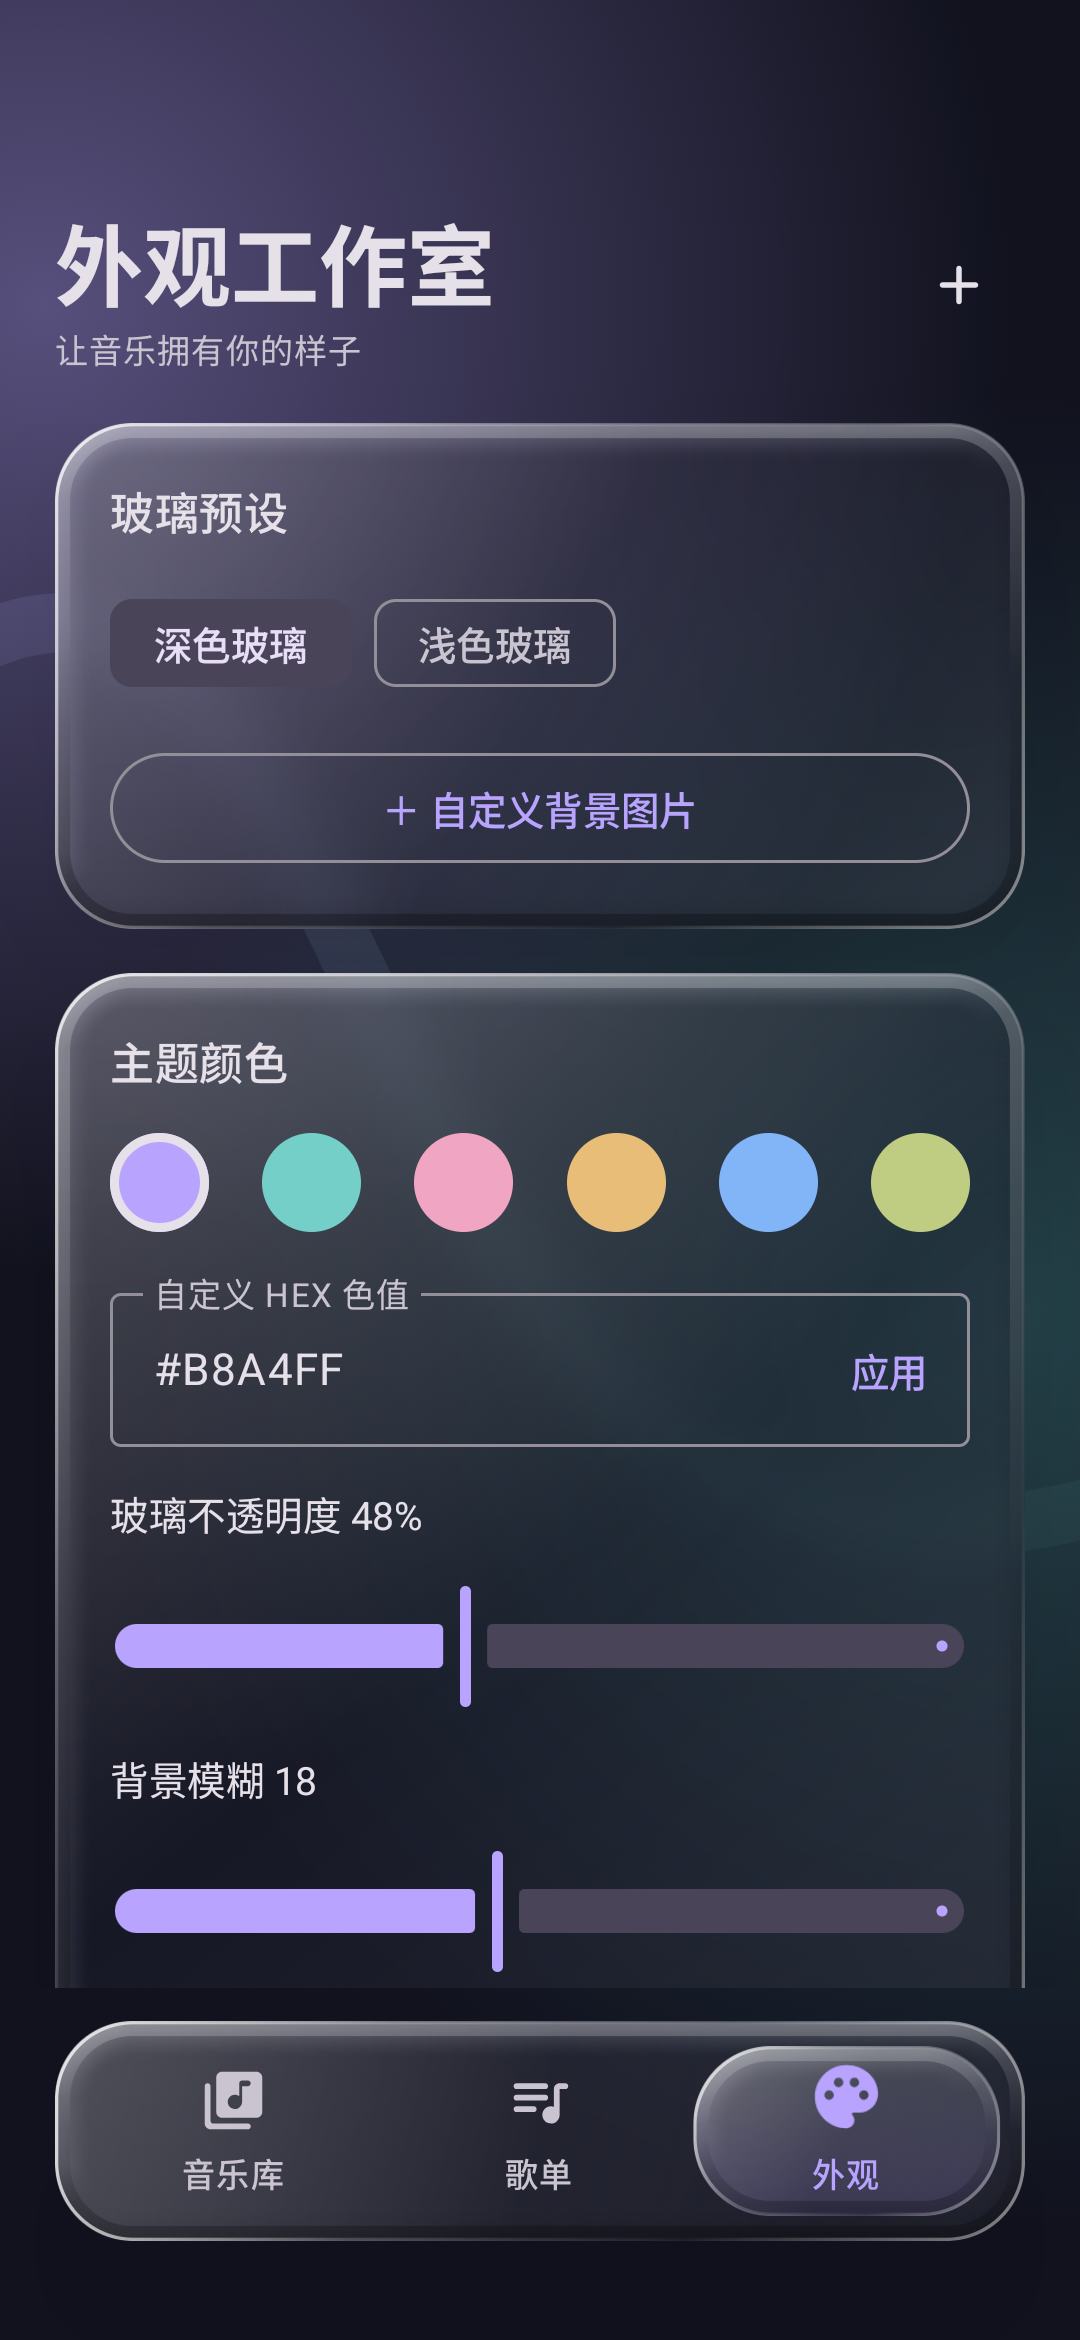
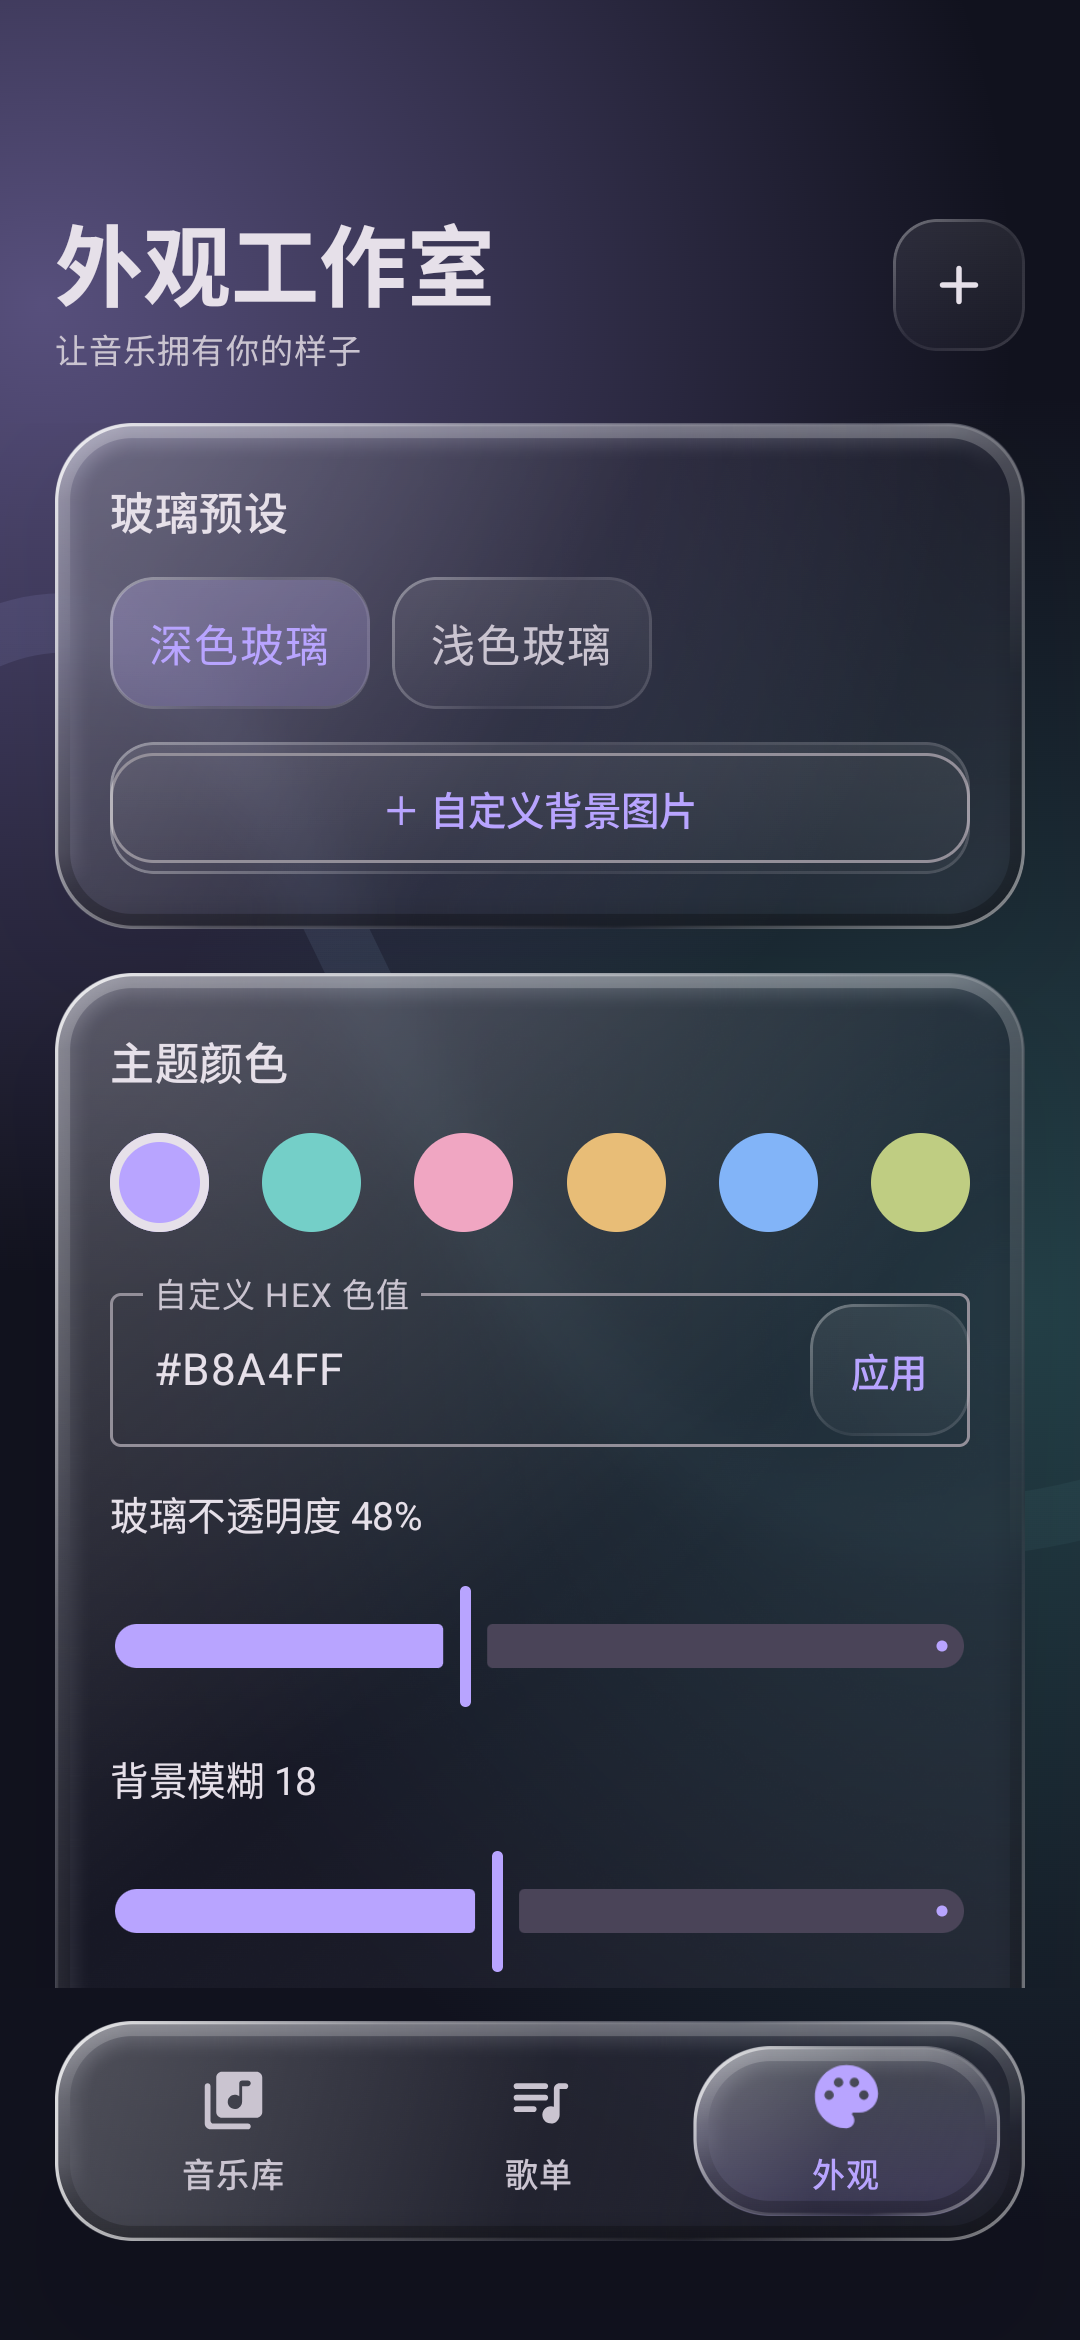
docs: publish unified list screenshots and release verification [skip ci]

Changed region(s): [[0.0917, 0.2496, 0.5806, 0.3744], [0.8556, 0.312, 0.9167, 0.3744], [0.825, 0.0936, 0.8556, 0.1248]]

diff --git a/docs/GLASS.md b/docs/GLASS.md
@@ -13,3 +13,10 @@
 导航高亮在三个标签间弹性移动，按下时最多扩张约 12%，图标放大到 1.28 倍并上浮；松手完成点击才切换页面并触发轻触反馈。取消触摸恢复原位置。关闭动效或开启低性能模式时立即更新选中状态，不执行弹簧动画。
 
 设备验证涵盖 Android 10 的兼容分支、Android 15 的实际 RuntimeShader 编译和绘制、深浅材质、取消按压与减少动效。测试中的图像差异检查用于确认导航反馈足够明显，不代表所有实体设备的帧率评测。
+
+
+## 1.0.6 列表与控件
+
+滚动列表共用 `GlassList.kt` 的轻量卡片边界：22dp 圆角、纵向渐变、斜向高光边与轻微投影，歌曲之间留出 10dp 间距。当前播放行使用强调色边框、加粗标题和封面角标。此层不进行背景捕获或运行折射着色器。
+
+`SoftControls.kt` 中的图标、文字、主操作与筛选控件共用 16dp 圆角底座及高光边，维持原有按压弹簧与系统轻触反馈。图标控件保留至少 48dp 的触摸区域；导航继续保留大幅选中胶囊反馈。危险操作保留语义色彩差异。

diff --git a/README.md b/README.md
@@ -4,7 +4,7 @@
 
 开源、离线优先、可自定义的 Android 玻璃风格音乐播放器。
 
-1.0.5：弹性滑动的立体导航、按压扩张与图标上浮；全局增加玻璃倒角、内阴影和反射，Android 13+ 支持背景边缘折射。[实现与参考源码](docs/GLASS.md)。
+1.0.6：统一卡片列表分层、当前播放标记及圆角玻璃按钮，保留弹性滑动导航、立体玻璃和 Android 13+ 背景边缘折射。[实现与参考源码](docs/GLASS.md)。
 
 **Kotlin · Jetpack Compose · Media3 · Room · DataStore · Haze**
 
@@ -12,6 +12,7 @@
   <img src="docs/screenshots/library.png" width="230" alt="深色音乐库" />
   <img src="docs/screenshots/themes.png" width="230" alt="玻璃主题编辑器" />
   <img src="docs/screenshots/player.png" width="230" alt="浅色全屏播放器" />
+  <img src="docs/screenshots/separated-list.png" width="230" alt="列表层次示例（测试素材）" />
 </p>
 <details>
 <summary>二级界面布局（1.0.4）</summary>

diff --git a/docs/TESTING.md b/docs/TESTING.md
@@ -85,3 +85,12 @@
 - 导航测试验证按压预览不切换页面、取消不触发操作、完成点击只切换一次；通过截图像素差异确认反馈覆盖面积明显，另验证浅色与低性能模式。
 - 实际音乐库、外观和播放器截图已更新。参考仓库、研究快照与实现分层见 [GLASS.md](GLASS.md)。
 - APK 版本 1.0.5 / versionCode 15，包名和签名保持升级兼容。
+
+
+## 1.0.6 列表与控件验证
+
+- 26 项 JVM 测试、Debug/Release 静态检查及签名构建通过。
+- Android 10 / Android 15 各 19 项设备测试通过：[CI](https://github.com/winner798/GlassBeat/actions/runs/42018093335)。
+- 新增嵌套“更多”按钮不触发歌曲播放、当前行标记切换与筛选控件选择状态回归。
+- 实际音乐库截图和三首测试歌曲的卡片层次截图已更新，未使用用户手机截图作为仓库素材。
+- APK 1.0.6 / versionCode 16，包名与签名保持覆盖升级兼容。
